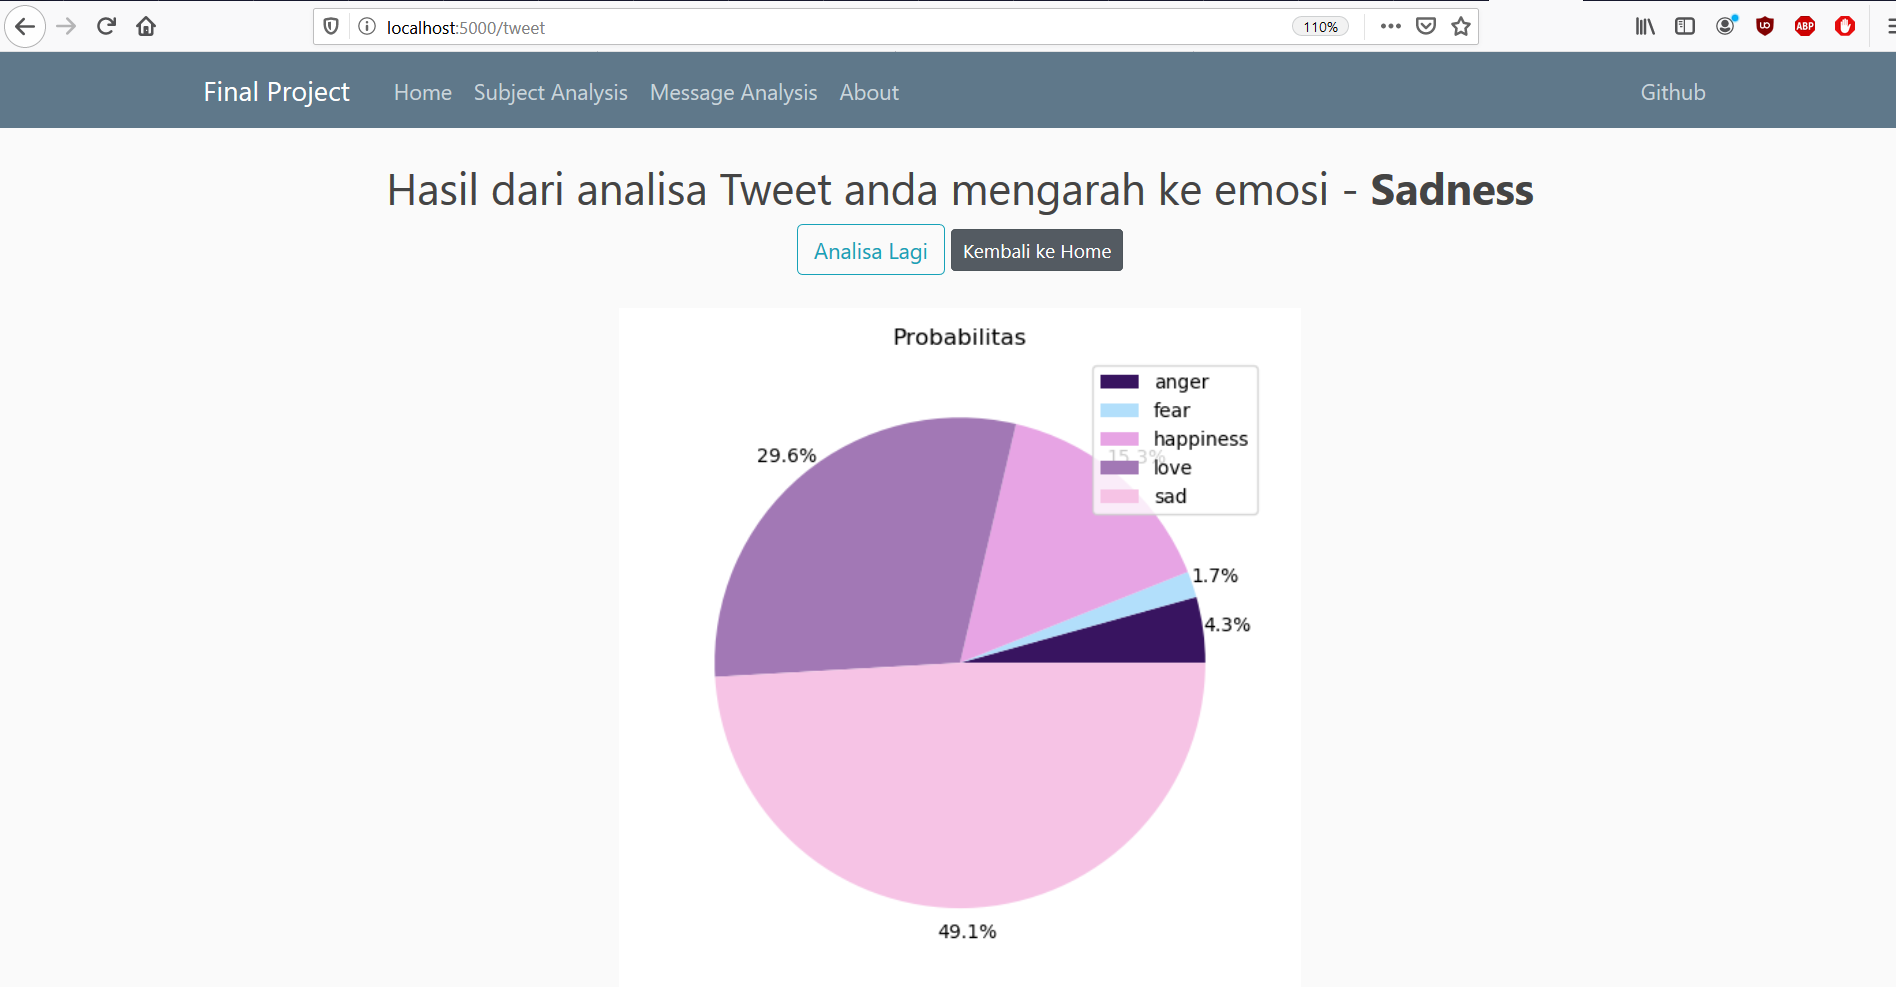
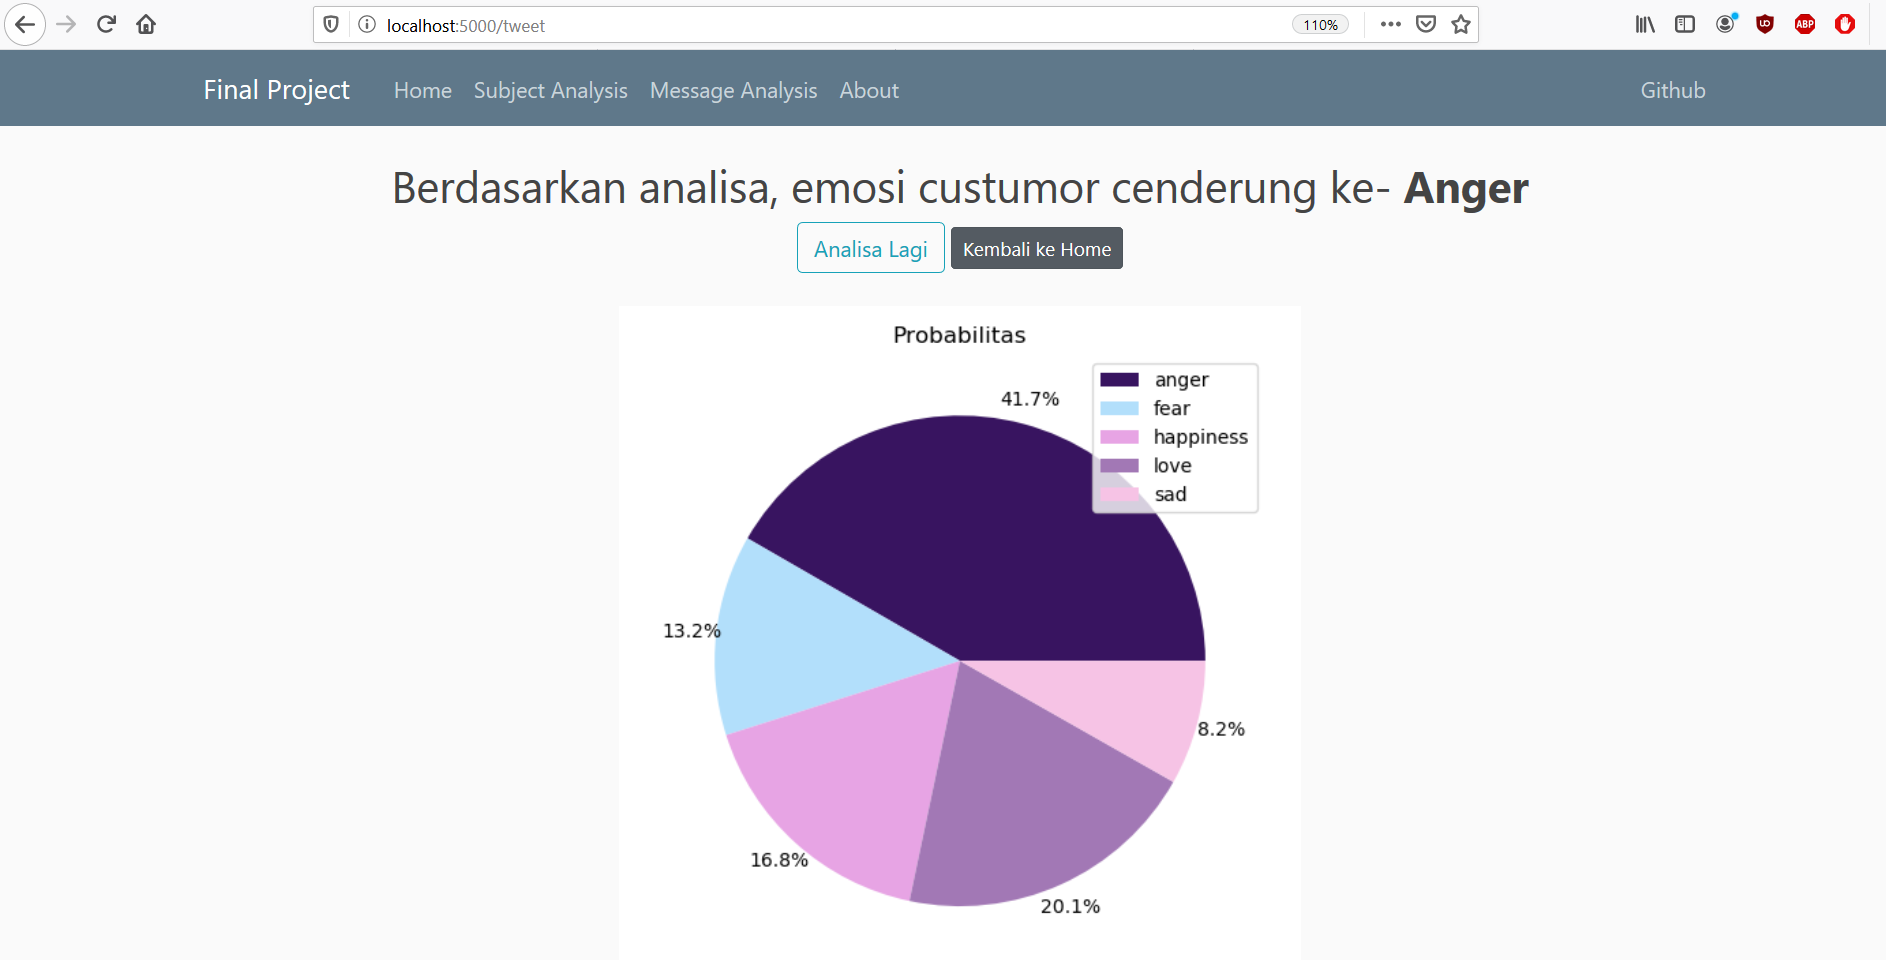
Final Project

diff --git a/templates/hasil_tweet.html b/templates/hasil_tweet.html
@@ -2,7 +2,7 @@
 {% block content %}
     <center>
     <div class="starter-template">
-    <h2>Hasil dari analisa Tweet anda mengarah ke emosi - <b>{{result.capitalize()}}</b></h2>
+    <h2>Berdasarkan analisa, emosi custumor cenderung ke- <b>{{result.capitalize()}}</b></h2>
     </div>
             <a href="{{ url_for('tweet') }}" class="btn btn-outline-info" role="button" aria-pressed="false">Analisa Lagi</a>
             <a href="{{ url_for('home') }}" class="btn btn-secondary btn-sm active" role="button" aria-pressed="false   ">Kembali ke Home</a>
